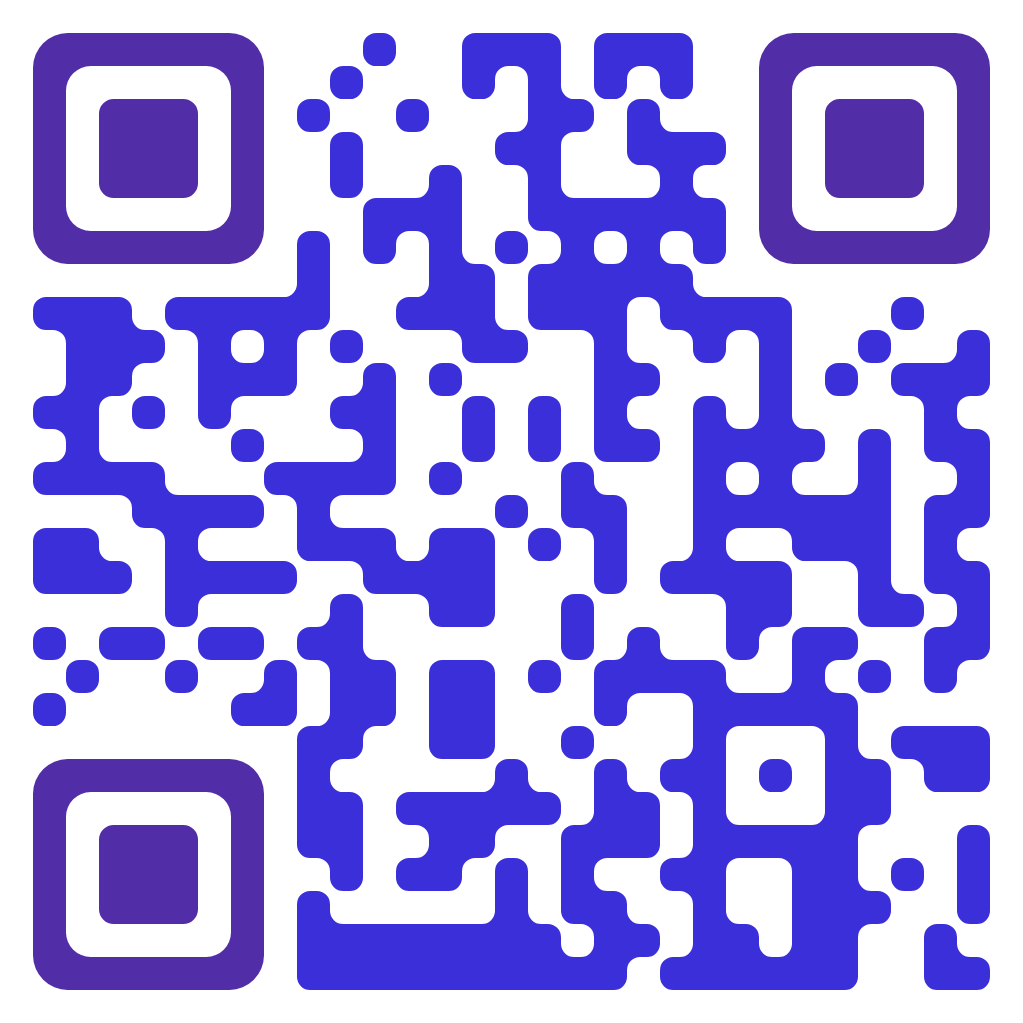
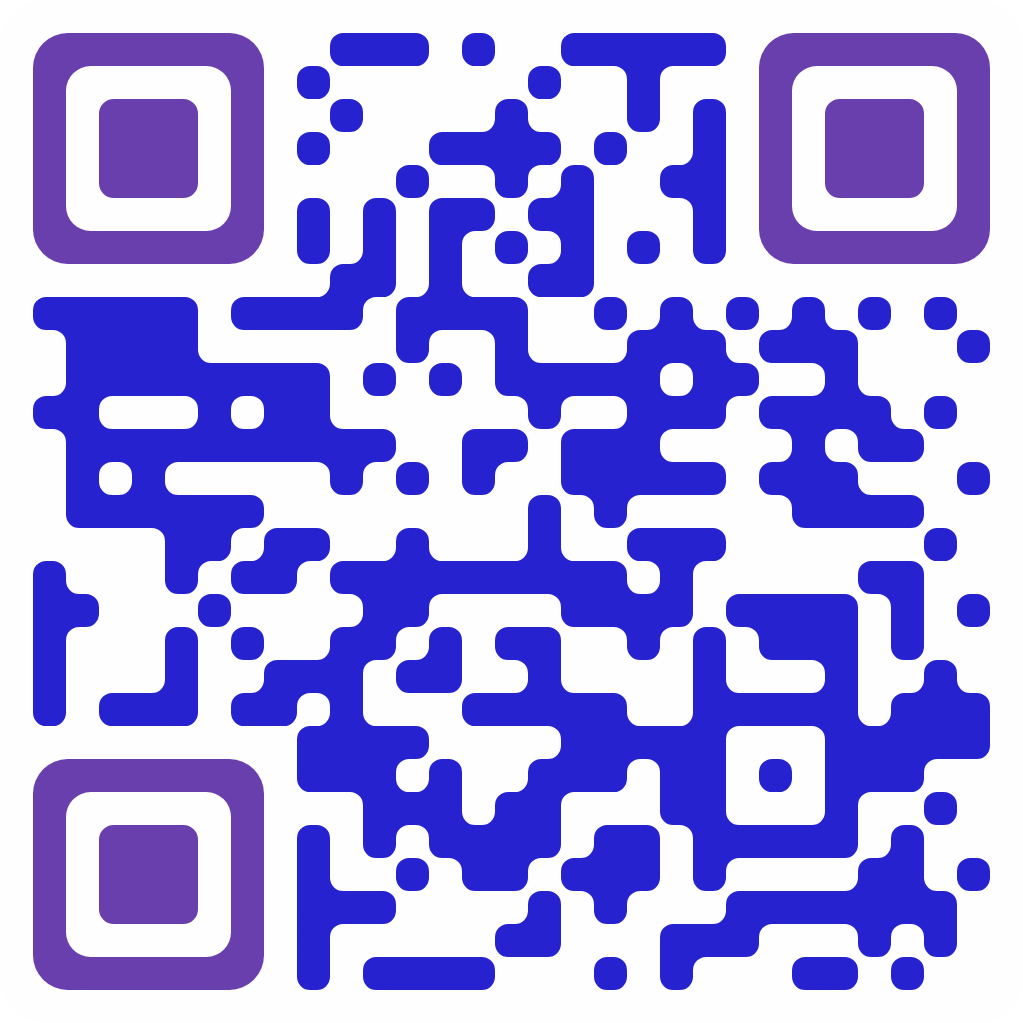
qr fix rename

diff --git a/README.md b/README.md
@@ -1,5 +1,5 @@
 <div align="center">
-    <a href="https://faitsumaru.github.io/happy-birthday-Egor/" target="_blank">
+    <a href="https://faitsumaru.github.io/happy-birthday-brother/" target="_blank">
         <img src="img/qr3.png" alt="qrGIFT">
     </a>
 </div>
